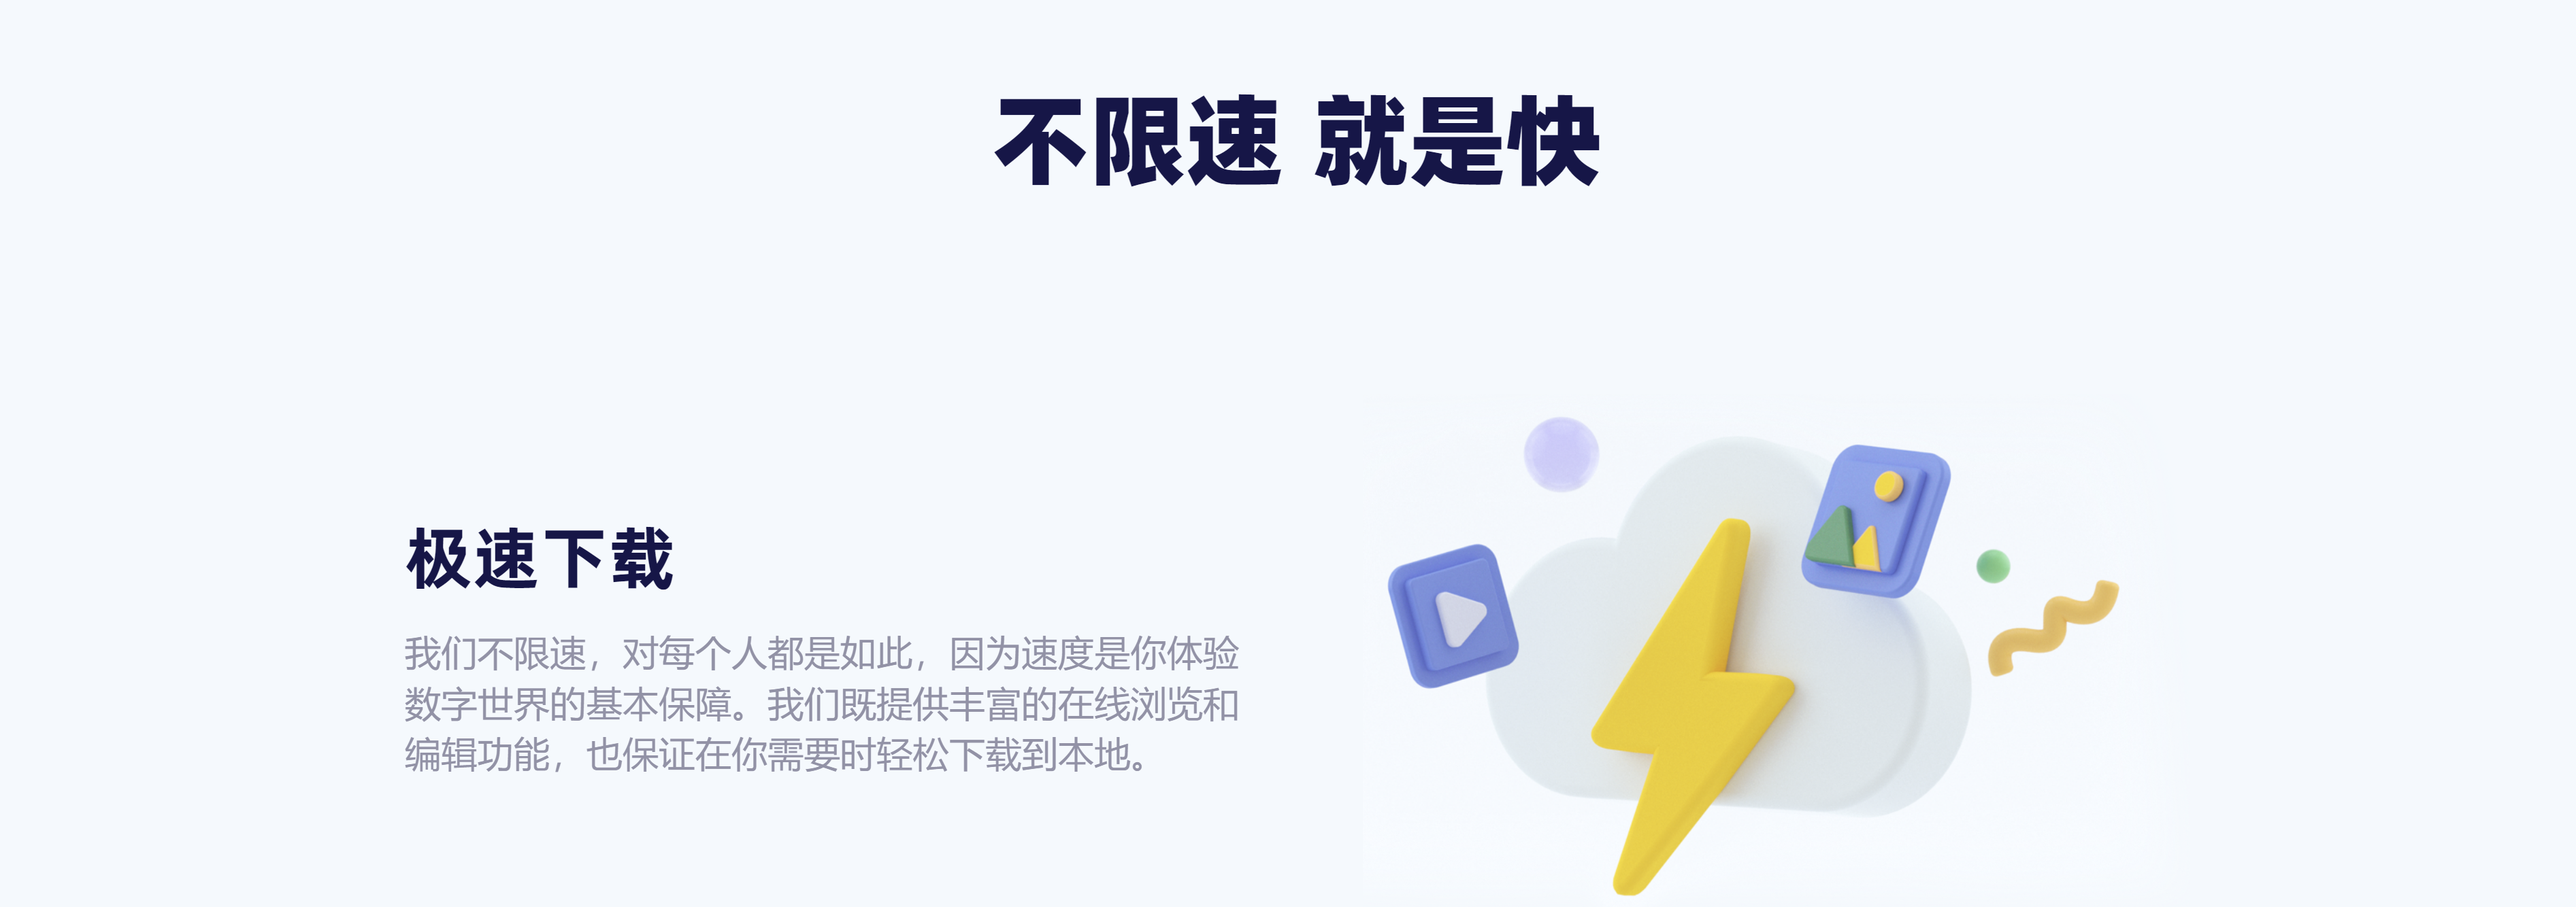
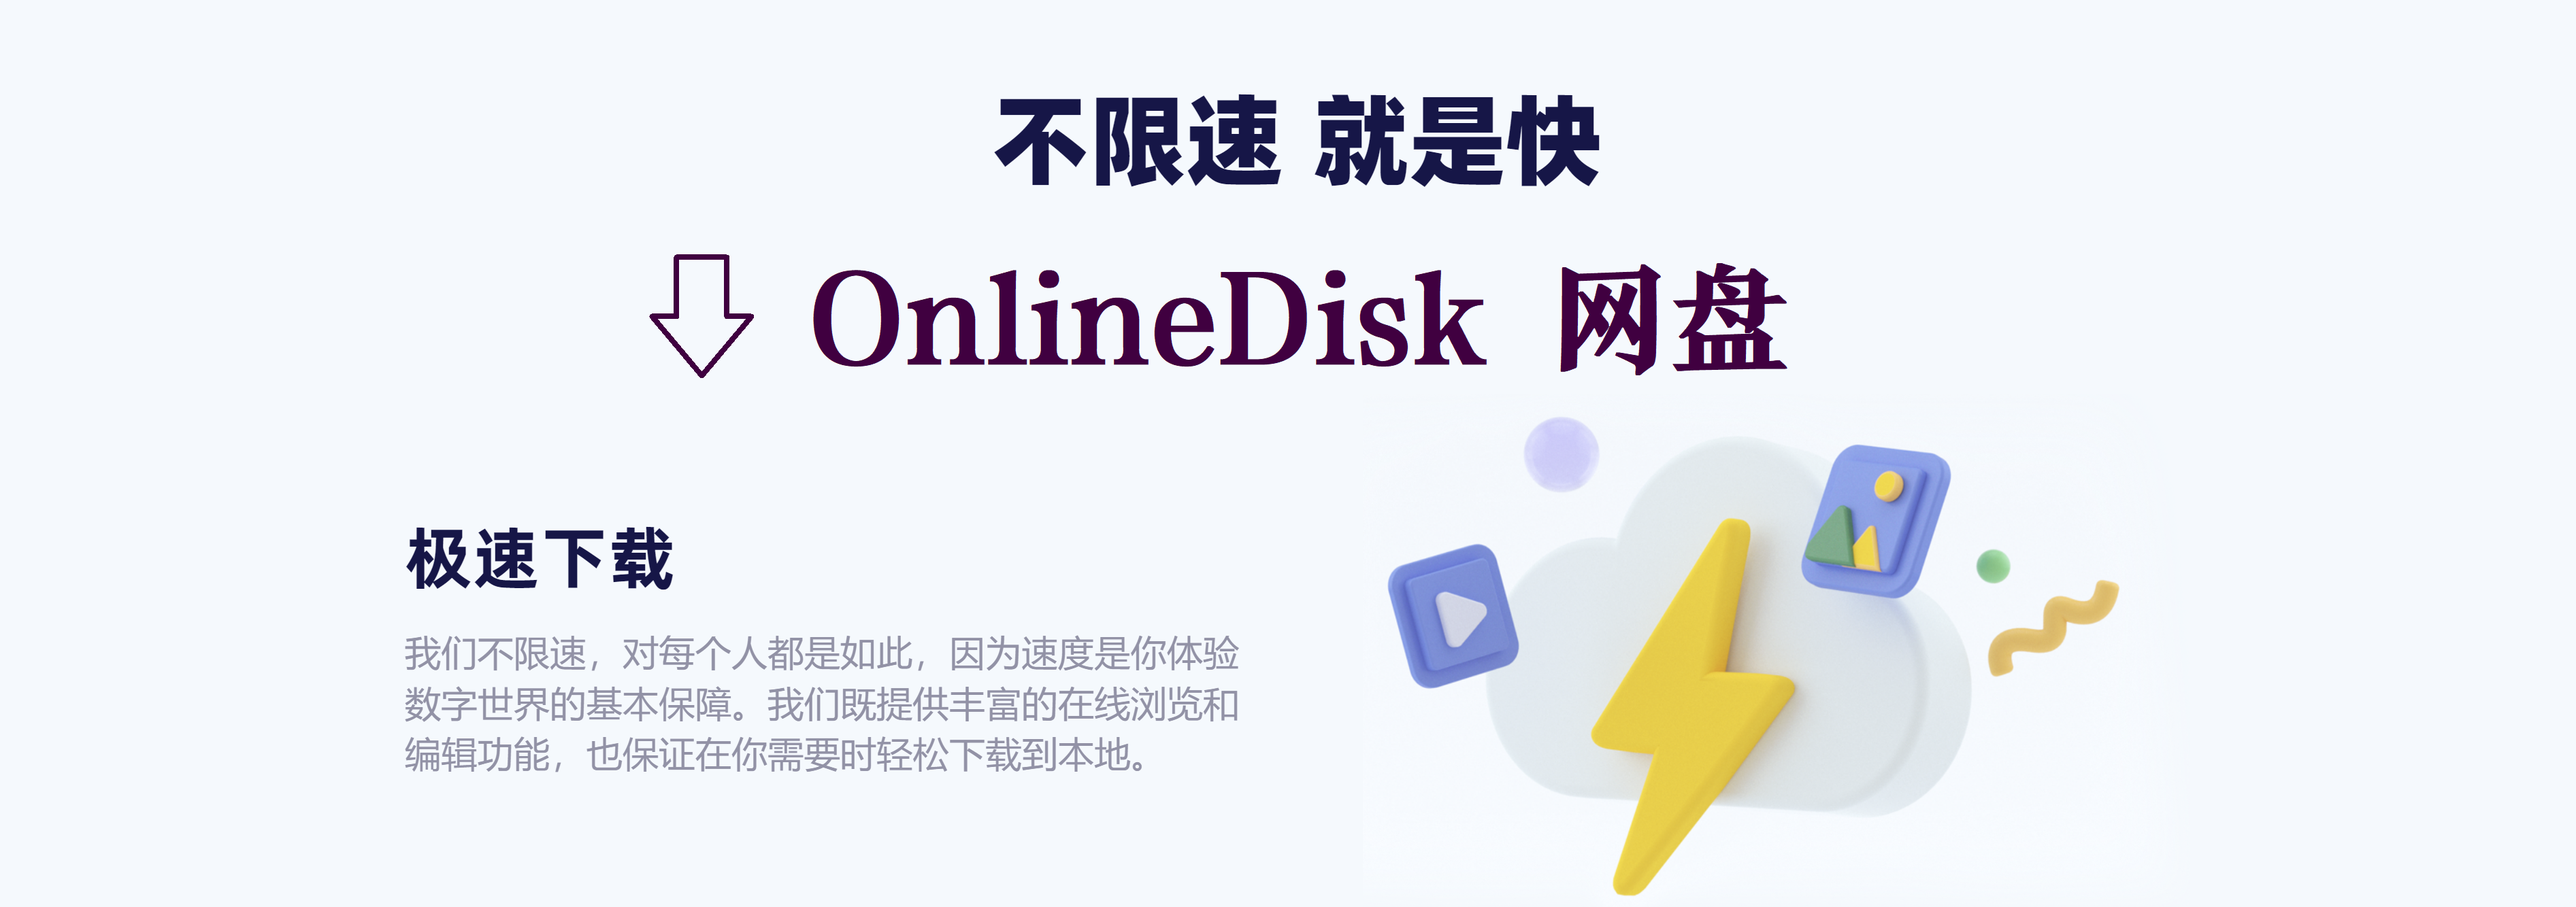
功能完成10/15

Changed region(s): [[0.2493, 0.2766, 0.6857, 0.4303], [0.2493, 0.2766, 0.2805, 0.3073]]

diff --git a/src/main/webapp/WEB-INF/templates/uploadmultiFiles.html b/src/main/webapp/WEB-INF/templates/uploadmultiFiles.html
@@ -3,17 +3,123 @@
 <head>
 <meta charset="UTF-8">
 <title>文件上传</title>
+<style>
+#formContainer{
+	width:288px;
+	height:321px;
+	margin:0 auto;
+	position:relative;
+	z-index:1;
+
+
+	-moz-perspective: 800px;
+	-webkit-perspective: 800px;
+	perspective: 800px;
+}
+
+#formContainer form{
+	width:100%;
+	height:100%;
+	position:absolute;
+	top:0;
+	left:0;
+    padding:20px 20px 20px 20px;
+
+	/* Enabling 3d space for the transforms */
+	-moz-transform-style: preserve-3d;
+	-webkit-transform-style: preserve-3d;
+	transform-style: preserve-3d;
+	
+	/* When the forms are flipped, they will be hidden */
+	-moz-backface-visibility: hidden;
+	-webkit-backface-visibility: hidden;
+	backface-visibility: hidden;
+	
+	/* Enabling a smooth animated transition */
+	-moz-transition:0.8s;
+	-webkit-transition:0.8s;
+	transition:0.8s;
+	
+	/* Configure a keyframe animation for Firefox */
+	-moz-animation: pulse 2s infinite;
+	
+	/* Configure it for Chrome and Safari */
+	-webkit-animation: pulse 2s infinite;
+}
+
+
+/* Firefox Keyframe Animation */
+@-moz-keyframes pulse{
+	0%{		box-shadow:0 0 1px #008aff;}
+	50%{	box-shadow:0 0 8px #008aff;}
+	100%{	box-shadow:0 0 1px #008aff;}
+}
+
+/* Webkit keyframe animation */
+@-webkit-keyframes pulse{
+	0%{		box-shadow:0 0 1px #008aff;}
+	50%{	box-shadow:0 0 10px #008aff;}
+	100%{	box-shadow:0 0 1px #008aff;}
+}
+
+.filediv{
+    position: relative;
+    margin:0 auto;
+}
+.filediv input{
+    opacity: 0;
+    width: 100px;
+    height: 35px;
+    position: absolute;
+    left: 0;
+    top: 0;
+    z-index: 99;
+}
+.filediv div{
+    height: 35px;
+    line-height: 35px;
+    background-color: #03a9f4;
+    color: #fff;
+    width: 100px;
+    text-align: center;
+    font-size: 14px;
+    position: absolute;
+    top: 0;
+    left: 0;
+    z-index: 98;
+}
+input[type="text"], textarea, select {
+        border: 3px solid #999;
+}
+input[type="text"]:focus textarea:focus select:focus{
+        border: 3px solid #008c8c;
+}
+
+</style>
+<script>
+	function confirmupload(){
+		
+	}
+</script>
 </head>
 <body>
+<h2 align="center">OnlineDisk系统-文件上传</h2>
+<div id="formContainer">
 <form  action="#" th:action="@{/multifileupload}"  method="POST" enctype="multipart/form-data">
-		选择文件1：<input type="file" name="myfile"/><br>
-		文件描述1：<input type="text" name="description"/><br>
-		选择文件2：<input type="file" name="myfile"/><br>
-		文件描述2：<input type="text" name="description"/><br>
-		选择文件3：<input type="file" name="myfile"/><br>
-		文件描述3：<input type="text" name="description"/><br>
-		<input type="submit" value="提交"/>
-</form>
 
+		选择文件1：<input type="file" name="myfile"/><br>
+		文件描述1：<input type="text" name="description"/><br/><br/>
+		选择文件2：<input type="file" name="myfile"/><br>
+		文件描述2：<input type="text" name="description"/><br/><br/>
+		选择文件3：<input type="file" name="myfile"/><br>
+		文件描述3：<input type="text" name="description"/><br/><br/>
+		<hr/>
+		
+		<div class="filediv" align="center">
+		<input type="submit" value="提交" id="Submit" onclick="return confirmupload();"/>
+		<div >确认上传</div>
+    </div>
+</form>
+</div>
 </body>
 </html>

diff --git a/src/main/webapp/WEB-INF/templates/index.html b/src/main/webapp/WEB-INF/templates/index.html
@@ -2,7 +2,7 @@
 <html xmlns:th="https://www.thymeleaf.org">
 <head>
 <meta charset="UTF-8">
-<title>简易网盘主页</title>
+<title>OnlineDisk系统</title>
 <link rel = "stylesheet" type="text/css"  th:href="@{/css/index.css}" />
 <script>
 function delete1(){
@@ -30,13 +30,14 @@ function share1(){
 </script>
 </head>
 <body>
+      <marquee behavior="alternate" bgcolor="#FFA07A"><h3> 欢迎来到OnlineDisk！！！(本系统由王艺祺-梅跃宗联合制作完成！)</h3></marquee>
      <div class="bannerbox">
             <img width="100%" height="10%" th:src="@{/img/1234.png}">
      </div>
-     <h2 align="center">OnlineDisk系统</h2>
-     <marquee behavior="alternate" bgcolor="#FFA07A"><h3> 欢迎来到OnlineDisk！！！(本系统由王艺祺-梅跃宗联合制作完成！)</h3></marquee>
-     <h2>欢迎用户：<a href="#" th:text="${#httpSession.getAttribute('username')}"></a></h2><hr>
-     <h2>私人根目录：<span  th:text="${#servletContext.getAttribute('userpath')}"></span></h2>
+     <h2 align="center">OnlineDisk系统-主页</h2>
+     <h2>欢迎用户：<a href="#" th:text="${#httpSession.getAttribute('username')}"></a> &nbsp;&nbsp;&nbsp;&nbsp;
+     私人空间根目录：<span  th:text="${#servletContext.getAttribute('userpath')}"></span></h2><hr>
+
      <br><br>
      <table width="100%" border="1" cellpadding="2" collapse="1">     
      <tr>

diff --git a/src/main/webapp/WEB-INF/templates/modifypage1.html b/src/main/webapp/WEB-INF/templates/modifypage1.html
@@ -2,7 +2,7 @@
 <html xmlns:th="https://www.thymeleaf.org">
     <head>
         <meta charset="utf-8" />
-        <title>Apple-like Login Form | Tutorialzine Demo</title>
+        <title>重命名</title>
         
         <!-- Our CSS stylesheet file -->
         <link rel="stylesheet" th:href="@{/css/styles.css}" />

diff --git a/src/main/java/controller/LoginController.java b/src/main/java/controller/LoginController.java
@@ -52,8 +52,8 @@ public class LoginController {
 		for(int i =0;i<fileListorigin.length;i=i+1) {
 			store+=(fileListorigin[i].length())/1024;
 		}
-		session.setAttribute("Store", store);
 		}
+		session.setAttribute("Store", store);
 		model.addAttribute("filelistindex1",fileListorigin);
 		model.addAttribute("filepath",targetDir);
         session.setAttribute("filepathnow",targetDir);

diff --git a/src/main/java/controller/Sharecontroller.java b/src/main/java/controller/Sharecontroller.java
@@ -24,7 +24,9 @@ public class Sharecontroller {
 		String sharepath =(String) request.getServletContext().getAttribute("sharepath");
 		File share=new File(sharepath);
 		File Truefile=new File(file);
-		
+		if(!share.exists()) {
+			share.mkdirs();
+		}
 		ioFile iofile=new ioFile();
 		try {
 			iofile.copyFolder(Truefile, share);
